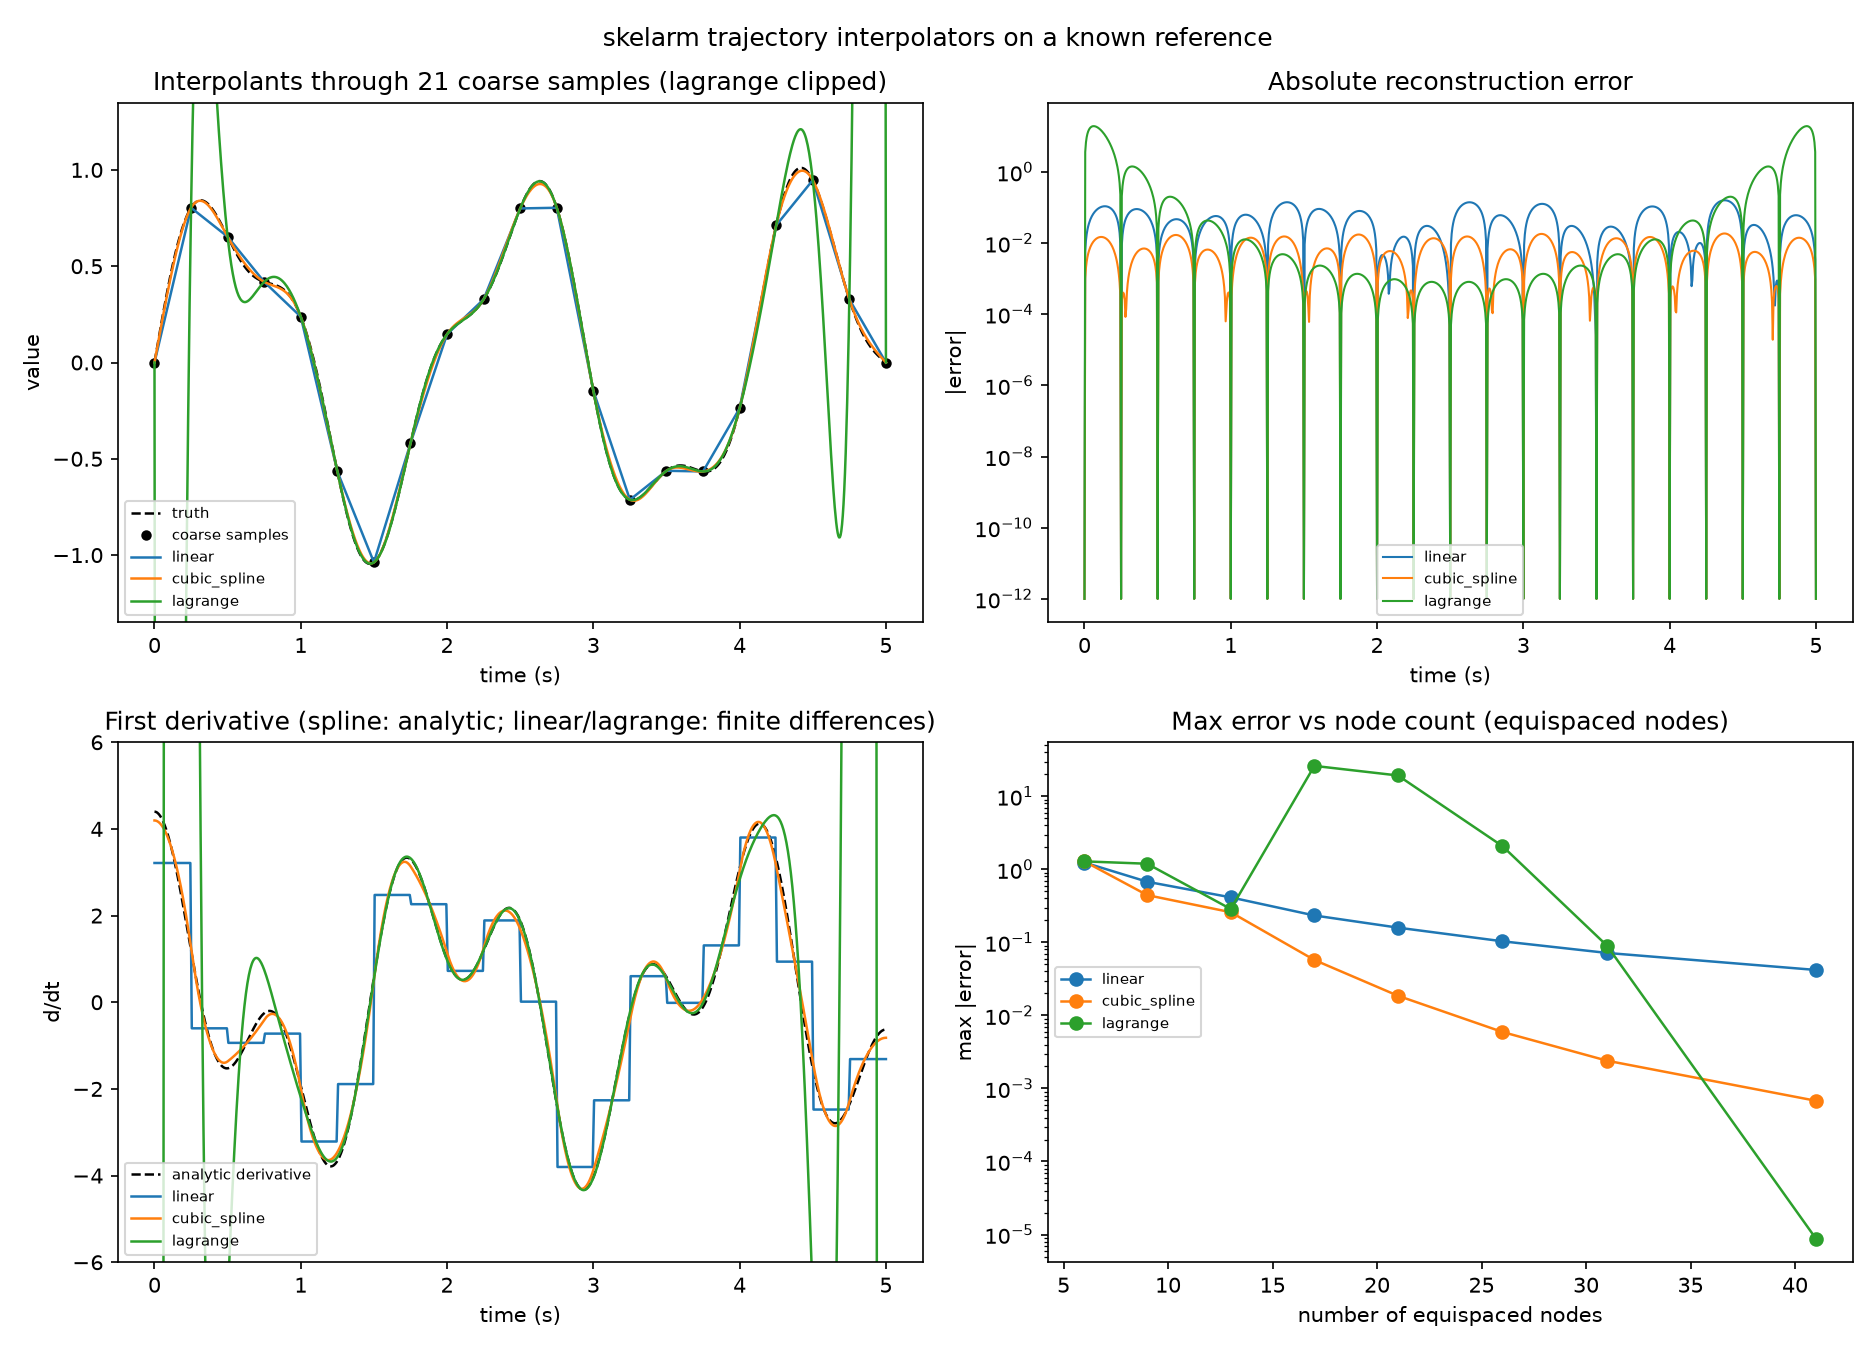
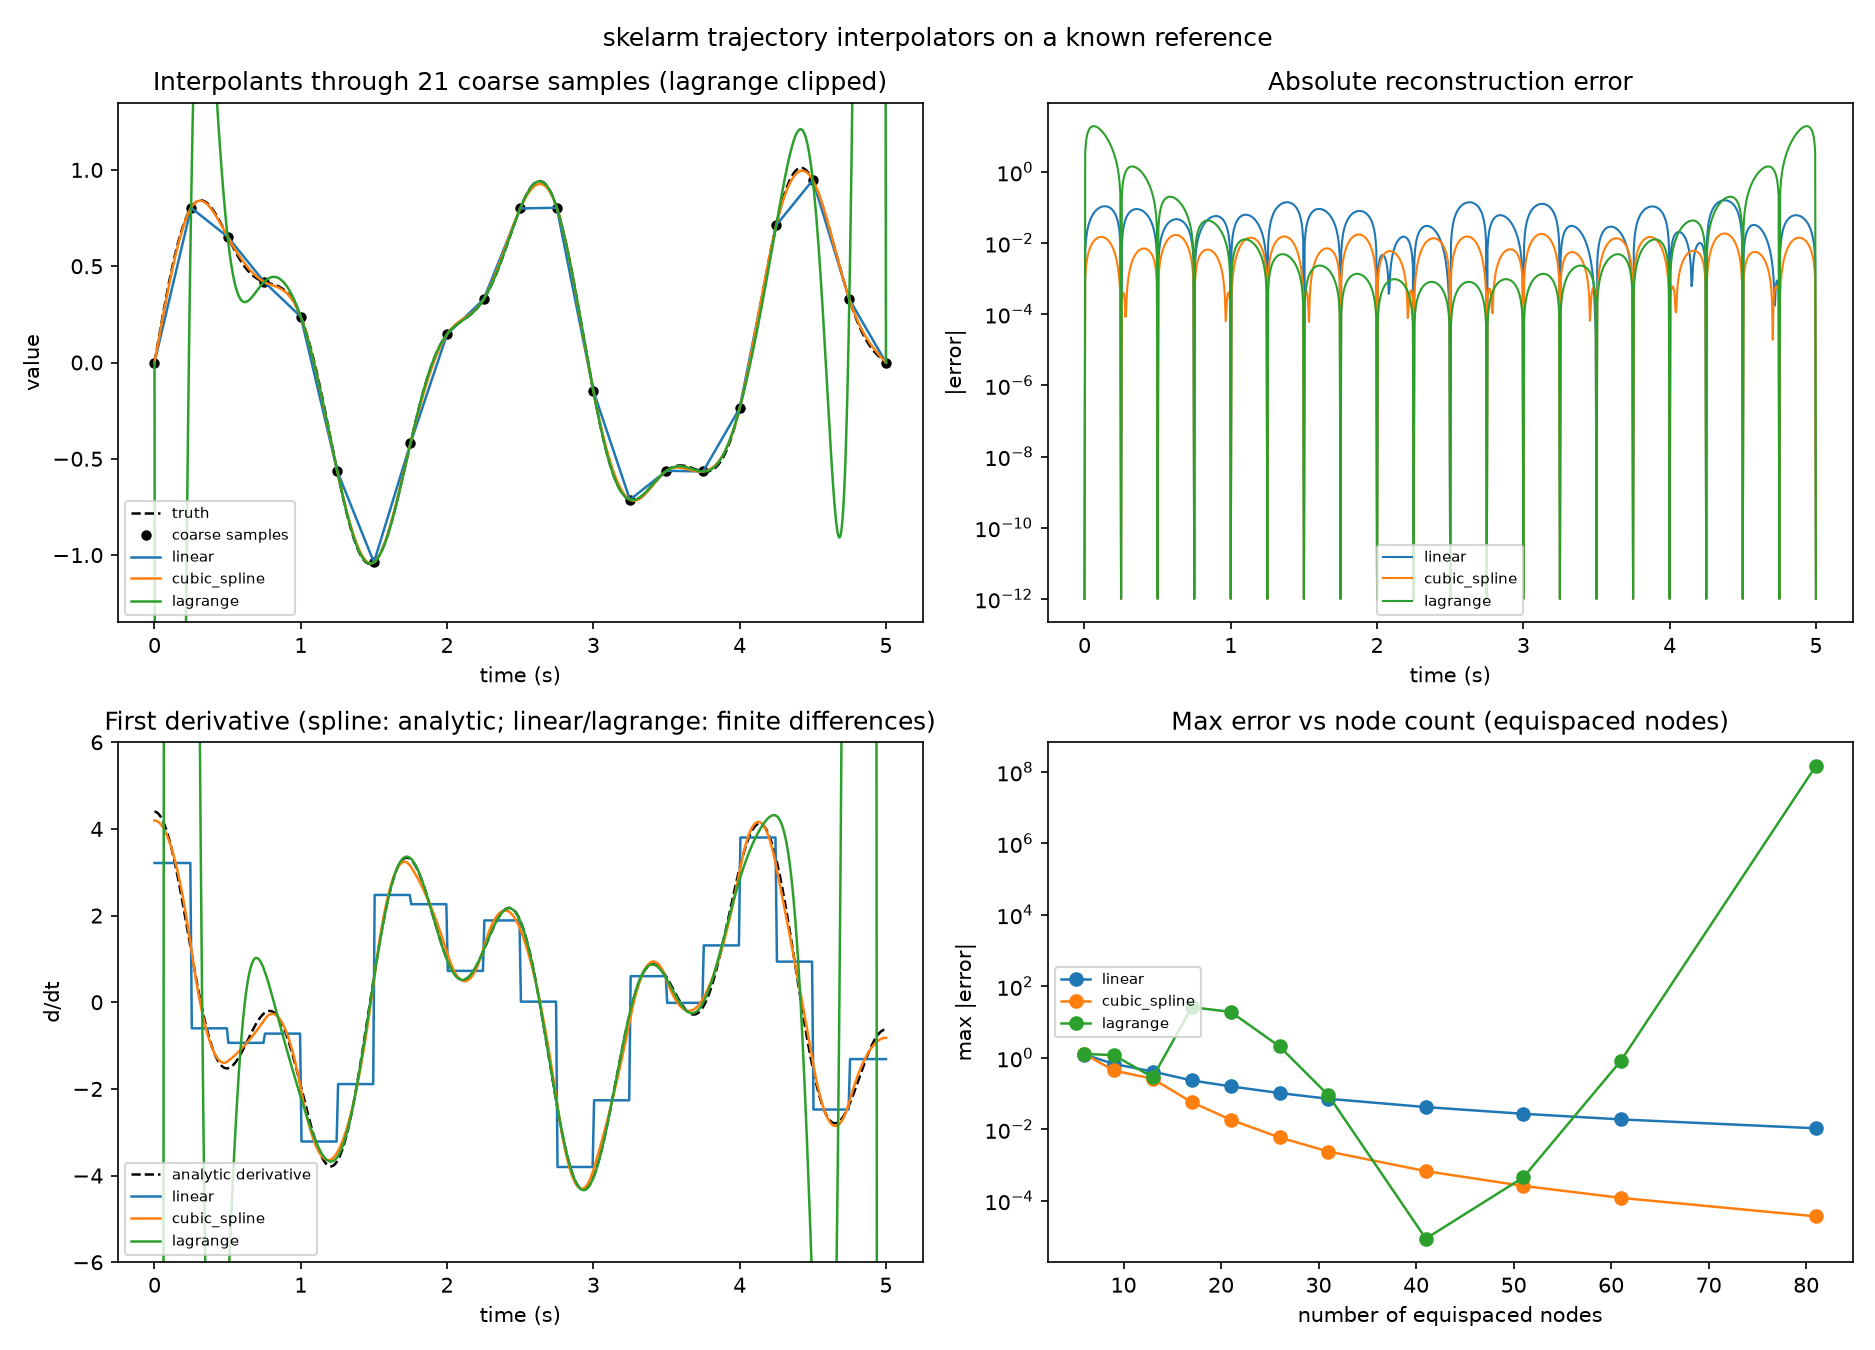
fix: show the Lagrange floating-point blow-up and disclose the boundary case

diff --git a/examples/interpolation_demo.py b/examples/interpolation_demo.py
@@ -15,10 +15,17 @@ coarsely, so every reconstruction error is measurable against the analytic truth
    differences on the query grid.
 3. **Node-count sweep** — the maximum error as the sampling gets denser: linear
    and the spline converge steadily, while the equispaced high-degree Lagrange
-   polynomial suffers wild Runge-type edge oscillations at intermediate node
-   counts (peaking around 26 absolute error here, orders of magnitude above the
-   spline) before eventually converging for this analytic reference — which is
-   why it is reserved for short series.
+   polynomial is wildly non-monotonic: Runge-type edge oscillations peak around
+   26 absolute error at 17 nodes, a transiently tiny error appears near 41
+   nodes, and beyond roughly 60 nodes floating-point ill-conditioning makes the
+   evaluation blow up outright (~1e8 by 81 nodes). Whatever exact arithmetic
+   would do for this analytic reference, the finite-precision implementation
+   does not stay converged — which is why it is reserved for short series.
+
+The reference happens to have zero second derivative at both endpoints, exactly
+matching the natural spline's boundary condition; with nonzero endpoint
+curvature (e.g. a phase-shifted reference) the spline's margin over linear at
+21 nodes narrows from about sevenfold to about fourfold.
 
 Run from the repository root:
 
@@ -40,7 +47,7 @@ if TYPE_CHECKING:
 
 _DURATION = 5.0  # seconds of reference motion
 _DEMO_NODES = 21  # coarse samples for the reconstruction/derivative panels
-_NODE_COUNTS = (6, 9, 13, 17, 21, 26, 31, 41)  # sweep for the convergence panel
+_NODE_COUNTS = (6, 9, 13, 17, 21, 26, 31, 41, 51, 61, 81)  # sweep for the stability panel
 _FINE = np.linspace(0.0, _DURATION, 1001)  # query grid (inside the node range)
 
 

diff --git a/docs/reference/09_trajectory_filtering.md b/docs/reference/09_trajectory_filtering.md
@@ -70,13 +70,17 @@ uv run python examples/interpolation_demo.py
 ![Interpolator comparison: reconstruction, error, first derivative, and the max error vs node count](../assets/interpolation_demo.png)
 
 At 21 nodes the cubic spline is roughly seven times more accurate than linear
-(RMSE 0.009 vs 0.062), and its analytic first derivative tracks the true one
-where linear's finite-difference slope is a staircase. The Lagrange polynomial
-illustrates the warning above: at intermediate node counts its edge
-oscillations reach absolute errors around 26 — orders of magnitude above the
-spline — even though for this analytic reference it eventually converges once
-the degree resolves the signal. The sweep panel shows all three behaviors side
-by side.
+(RMSE 0.009 vs 0.062) — a somewhat favorable case, since this reference happens
+to have zero endpoint curvature, exactly the natural boundary condition; with
+nonzero endpoint curvature the margin narrows to about fourfold. The spline's
+analytic first derivative tracks the true one where linear's finite-difference
+slope is a staircase. The Lagrange polynomial illustrates the warning above,
+and the sweep panel shows how untrustworthy a high-degree equispaced fit is:
+edge oscillations reach absolute errors around 26 at 17 nodes, a transiently
+tiny error appears near 41 nodes, and beyond roughly 60 nodes the
+finite-precision evaluation blows up outright (~10⁸ by 81 nodes) — whatever
+exact arithmetic would promise for an analytic signal, the floating-point
+implementation does not stay converged.
 
 ## 2. Smoothing filters
 
